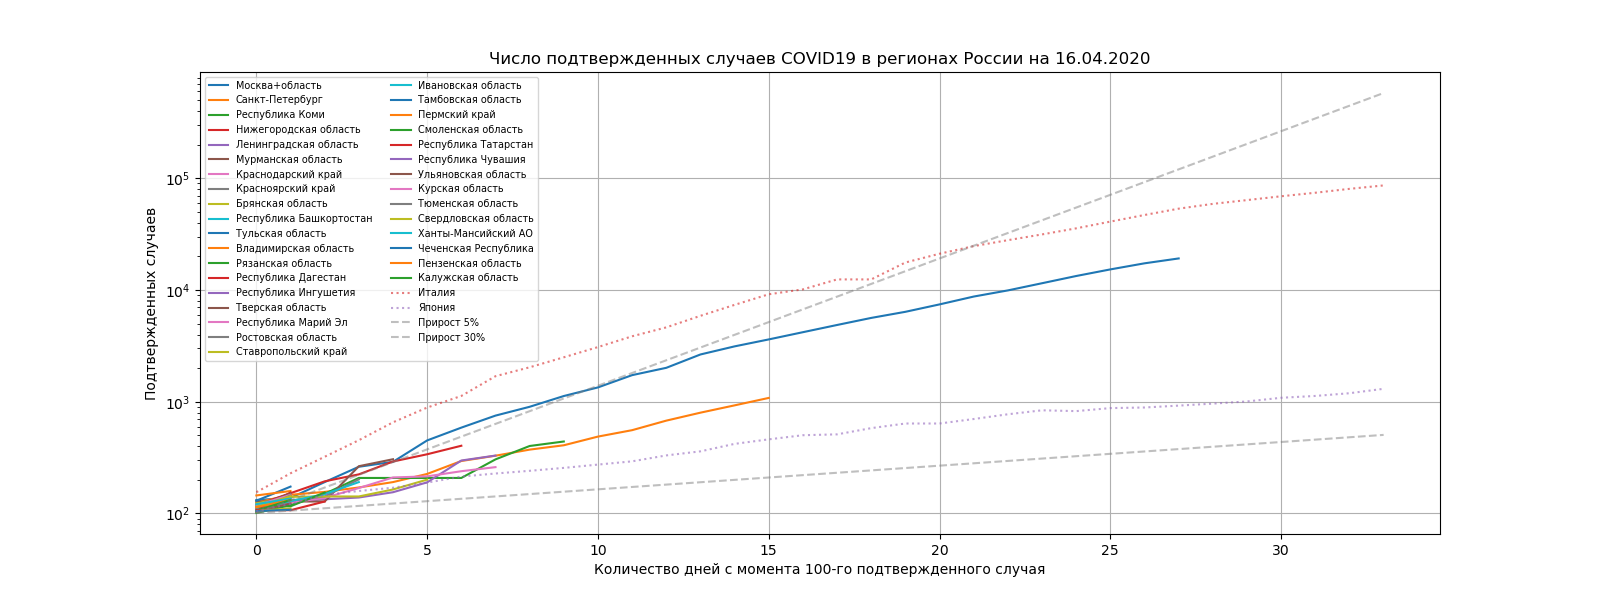
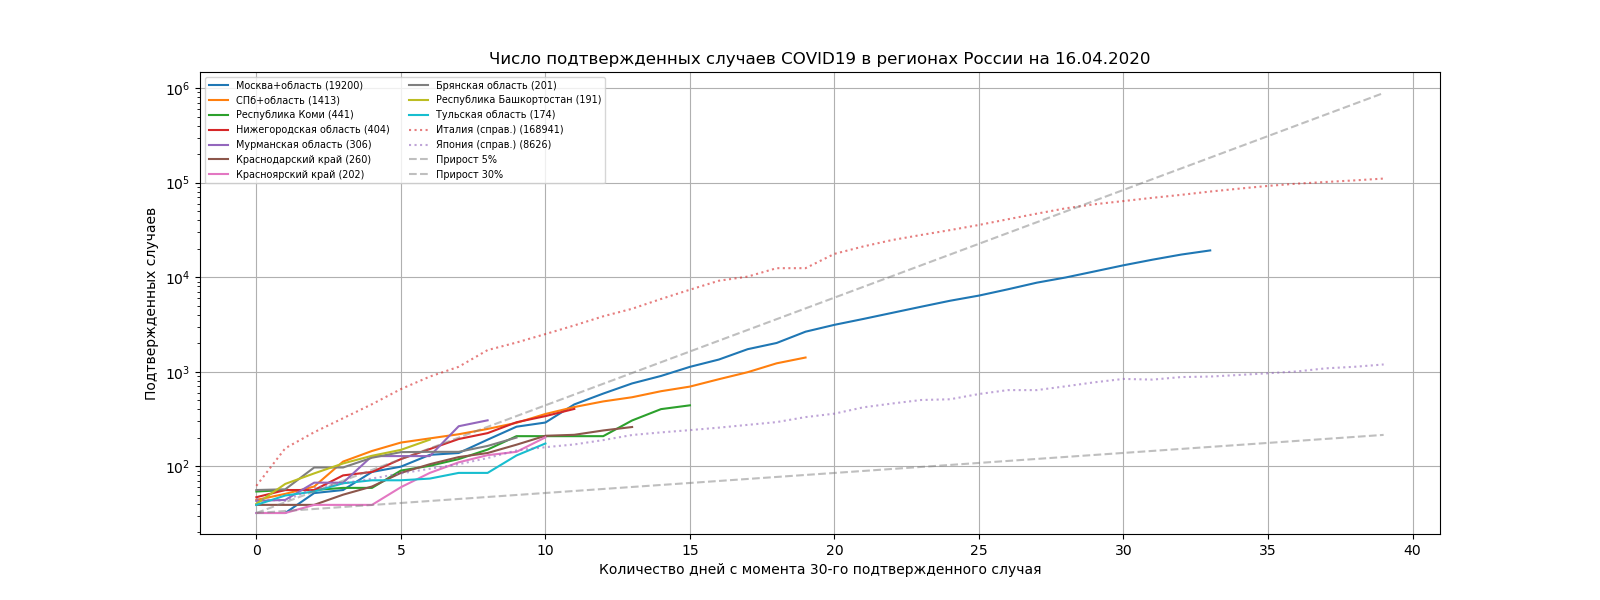
Update readme, add new plots

diff --git a/python3/plot.py b/python3/plot.py
@@ -3,8 +3,10 @@
 from covid19ru.plot import plot
 
 def plot_all():
-  plot(show=False, save_name='ruscovid.png', labels_in_russian=False)
-  plot(show=True, save_name='ruscovid_ru.png', labels_in_russian=True)
+  plot(show=False, save_name='ruscovid.png', labels_in_russian=False, confirmed_min_threshold=30, rng=(None,10))
+  plot(show=False, save_name='ruscovid_10_20.png', labels_in_russian=False, confirmed_min_threshold=30, rng=(10,20))
+  plot(show=True, save_name='ruscovid_ru.png', labels_in_russian=True, confirmed_min_threshold=30, rng=(None,10))
+  plot(show=True, save_name='ruscovid_ru_10_20.png', labels_in_russian=True, confirmed_min_threshold=30, rng=(10,20))
 
 if __name__ == '__main__':
   plot_all()

diff --git a/README.md b/README.md
@@ -35,9 +35,18 @@ _Отказ от ответственности: автор не имеет от
 
 #### Visualization
 
-[English version of the plot](python3/ruscovid.png)
+**Regions in Top-10**
 
 ![](python3/ruscovid_ru.png)
+
+[English version of the plot](python3/ruscovid.png)
+
+
+**Regions at 11-21 places**
+
+![](python3/ruscovid_ru_10_20.png)
+
+[English version of the plot](python3/ruscovid_10_20.png)
 
 #### Data source description
 
@@ -121,6 +130,10 @@ Visualizations:
 * Find data on Russian regions for pre- 25.03.2020 period.
 
 ### Log
+
+#### 17.04.2020
+
+* Split the plot into `top10` and `10-20` plots for readability.
 
 #### 14.04.2020
 
